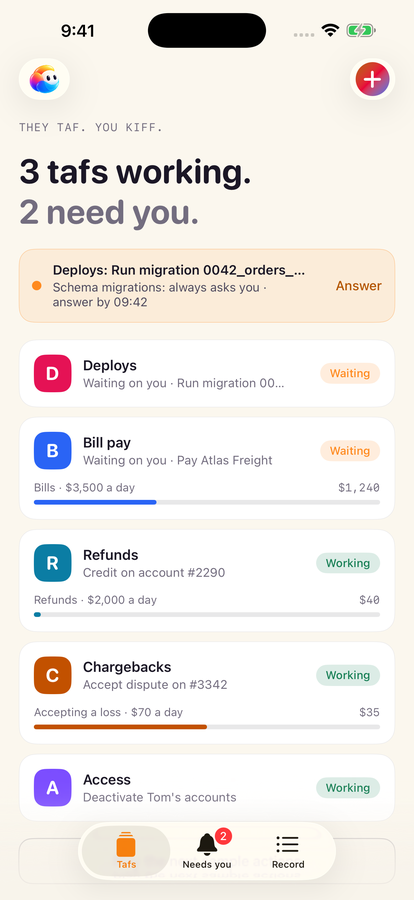
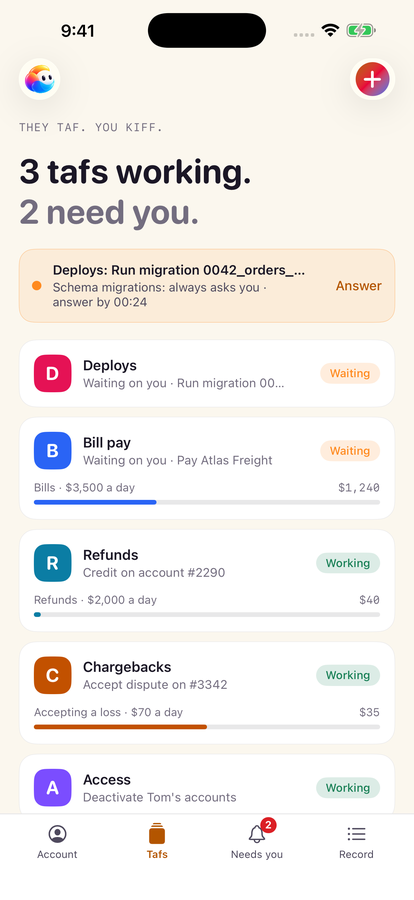
dev-kiff: docs for the app's screens (bar, a taf's four tabs, Setup), replacing the dial (#450)
* docs: Connect apps for the person running tafs; the dial after #439-#442

docs/connect-apps.md explains connecting an app (approve, then the app's
own sign-in), apps that use a key, what a taf can do and how its Card
still decides, why the consent screen lists broad access, app events and
their approval, the Slack door vs an action, disconnecting, and asking
Coach. It names apps by kind and no connection provider.

docs/dial.md: app events' approval on the When ring, Add a door through
Coach, labels cut with an ellipsis and read whole, and the pause rule for
a taf that works from its chat. doors.md describes the Slack bot sign-in
without the provider's name. Linked from docs/README.md and the README.

Claude-Session: https://claude.ai/code/session_01LDFi7vVjWytXEyimHeUj1t

* connect-apps: app events are approved on iPhone and iPad now (#441)

Claude-Session: https://claude.ai/code/session_01LDFi7vVjWytXEyimHeUj1t

* connect-apps: disconnecting asks the app to revoke, which may finish later; key or token

From codex-assistant's review on #443: Disconnect removes the taf's
access at once and requests revocation at the app, which may complete
later. A hosted page takes a key or a token.

* connect-apps: an action already sent may still finish after Disconnect

* docs (draft): the taf screen layout replaces the dial

docs/taf-screen.md (from dial.md): the bar, Record by taf, a taf's four
tabs, Setup's Starts when and Results go to, Account's Alerts, and dark,
[…]

diff --git a/README.md b/README.md
@@ -15,12 +15,15 @@ through KIFF's gateway, which checks the Card before any call reaches a tool.
 
 <p>
   <img src="docs/screenshots/welcome.png" width="220" alt="Welcome: They taf. You kiff.">
-  <img src="docs/screenshots/tafs.png" width="220" alt="Tafs: three working, two need you">
+  <img src="docs/screenshots/tafs.png" width="220" alt="Tafs: three working, two need you, with the bar: Account, Tafs, Needs you, Record">
   <img src="docs/screenshots/needs-you.png" width="220" alt="Needs you: held actions with Approve once and Refuse">
-  <img src="docs/screenshots/record.png" width="220" alt="Record: everything the tafs did, newest first">
-  <img src="docs/screenshots/taf.png" width="220" alt="A taf: its job, its runs and its activity">
+  <img src="docs/screenshots/record.png" width="220" alt="Record: a chip for each taf above the filter by kind, each entry starting with its taf">
+  <img src="docs/screenshots/taf.png" width="220" alt="A taf's Activity: what's left today, All, Done, Held and Refused, then its work by day">
   <img src="docs/screenshots/chat.png" width="220" alt="Chat: ask a taf what it did, or tell it what to do differently">
-  <img src="docs/screenshots/dial.png" width="220" alt="A taf's dial on iPhone: When, What and Where around its Why, Refund double charges">
+  <img src="docs/screenshots/setup.png" width="220" alt="A taf's Setup: the job, Starts when, Results go to and what it remembers">
+  <img src="docs/screenshots/starts-when.png" width="220" alt="Starts when: its schedule with − and +, Skip it or Run after, an app event to approve, one listening, and its doors">
+  <img src="docs/screenshots/results-go-to.png" width="220" alt="Results go to: Reply to the sender, Alert our phones and Email me, then a place in a connected app">
+  <img src="docs/screenshots/setup-dark.png" width="220" alt="Setup in dark">
   <img src="docs/screenshots/new-taf.png" width="220" alt="Starting a new taf">
 </p>
 
@@ -29,19 +32,19 @@ On iPad:
 <p>
   <img src="docs/screenshots/ipad-welcome.png" width="340" alt="Welcome on iPad">
   <img src="docs/screenshots/ipad-needs-you.png" width="340" alt="Needs you on iPad: held actions with Approve once and Refuse">
-  <img src="docs/screenshots/ipad-dial.png" width="340" alt="The dial on iPad, beside the list of tafs, with its remote and today's work">
+  <img src="docs/screenshots/ipad-setup.png" width="340" alt="A taf's Setup on iPad, beside the list of tafs, with the bar as a rail on the left">
 </p>
 
-On Android: the taf's dial (When, What and Where around its Why), a stop with its
-size and a change waiting to go live, Coach's card for a dial it drafted, and a
-taf's page with its chat:
+On Android: the bar, a taf's Setup and its Starts when, Results go to, Activity and Record
+by taf in dark:
 
 <p>
-  <img src="docs/screenshots/android/dial-overview.png" width="180" alt="The dial: the Why on the face, When, What and Where around it, an email door with a knock waiting and a closed Slack door">
-  <img src="docs/screenshots/android/dial-stop-size.png" width="180" alt="A stop chosen: Weekdays at 09:00, its size, and Make 1 change live">
-  <img src="docs/screenshots/android/dial-coach-card.png" width="180" alt="Coach's card: the dial it drafted, by connection, with one confirmation">
-  <img src="docs/screenshots/android/coach-card.png" width="180" alt="Coach: the header, the plan line, an answered approval and the rules card">
-  <img src="docs/screenshots/android/taf-page.png" width="180" alt="A taf's page: one header row, the tabs and the Card's line, then the chat">
+  <img src="docs/screenshots/android/home-bar.png" width="180" alt="Home with the bar: Account, Tafs, Needs you, Record">
+  <img src="docs/screenshots/android/taf-setup.png" width="180" alt="A taf's Setup">
+  <img src="docs/screenshots/android/taf-starts-when.png" width="180" alt="Setup › Starts when">
+  <img src="docs/screenshots/android/taf-results-dark.png" width="180" alt="Setup › Results go to, in dark">
+  <img src="docs/screenshots/android/taf-activity-dark.png" width="180" alt="A taf's Activity, in dark">
+  <img src="docs/screenshots/android/record-by-taf-dark.png" width="180" alt="Record by taf, in dark">
 </p>
 
 Screenshots come from CI, with sample data. On iOS, a run that changes a screen
@@ -72,12 +75,13 @@ tafs cloud and planque. Each feature has a page in [docs/](docs/README.md):
   halting and removing it.
 - **[Chat](docs/chat.md):** ask a taf what it did or tell it what to do; its answer and
   its work stream as it goes, and a held call shows where it was made.
-- **[The dial](docs/dial.md):** each taf's When, What and Where around its Why, with
-  today's work on the rim. − and + change a stop's size, and the changes wait as the
-  taf's next version until you make them live; Pause stops every schedule, follow-ups
-  included.
+- **[The app's screens](docs/taf-screen.md):** a bar with Account, Tafs, Needs you,
+  Record and Coach; the Record filtered by taf; each taf's Chat, Activity, Card and Setup.
+  Setup says what starts it (schedule, app events you approve, doors, follow-ups, Pause)
+  and where its results go. Changes wait as the taf's next version until you make them
+  live. Light and dark.
 - **[Coach mode](docs/coach.md):** say the job; Coach connects the tools, drafts the taf,
-  its Card and its dial, and you confirm with Face ID, Touch ID or your fingerprint. Improve a taf, try a new
+  its Card and how it runs, and you confirm with Face ID, Touch ID or your fingerprint. Improve a taf, try a new
   version under a trial Card, then install it.
 - **[Held calls](docs/approvals.md):** in Needs you, the chat, the lock screen and a push
   alert. Approve once, refuse, or give the Card extra room: each answer is signed on the

diff --git a/docs/taf-screen.md b/docs/taf-screen.md
@@ -1,0 +1,95 @@
+# The app's screens: the bar, a taf's tabs and Setup
+
+How the app is laid out for the person using it, on iPhone, iPad and Android. Every
+line it shows about how a taf runs is tafs cloud's (`GET` and `PUT /v1/tafs/{id}/knob`,
+`PUT …/results`, `…/follow-ups/{fid}`, `…/pause` and `…/resume`, in [api.md](api.md)).
+
+## The bar
+
+Five items, always in reach: **Account · Tafs · Needs you · Record · Coach**. On a
+phone they run along the foot; on a tablet or in landscape they make a rail down the left,
+with Coach at its bottom.
+
+- **Account** holds the account's settings: alerts, time zone, people and groups,
+  devices, signing out.
+- **Tafs** lists your tafs.
+- **Needs you** holds what waits for your answer, with its count.
+- **Record** is everything your tafs did, asked or were refused.
+- **Coach** is a filled button, not a tab: it opens Coach mode. It shows only to someone
+  who may use Coach; for anyone else the bar has four items.
+
+## Record
+
+A row of chips filters it by taf: **All tafs**, then one chip per taf with its colour. It
+combines with the filter by kind. Each entry starts with its taf ("Chargebacks · Refund
+€120"), and each day's heading shows the money spent that day.
+
+## A taf's four tabs
+
+Each tab has one job.
+
+- **Chat**: talk to the taf, or tell it to work differently. It works inside its Card
+  either way.
+- **Activity**: what it's waiting for from you (its Needs you items) at the top, then what
+  it did, day by day, filtered **All / Done / Held / Refused**. An entry opens the request
+  step by step.
+- **Card**: only what's on the Card: the Card itself, its limits, how they're counted, what
+  it has used, **Halt** and **Revoke**.
+- **Setup**: how it runs, in sections:
+  - **The job**, with **Improve in Coach**;
+  - **Starts when** and **Results go to** (below), each opened with **Open**;
+  - **Connected apps**, each with its actions, **Choose actions** when none are chosen yet,
+    and **Connect an app…** (see [connect-apps.md](connect-apps.md));
+  - **What it remembers**, **Versions**, and **Remove for good**.
+
+## Setup › Starts when
+
+- **Its schedule**: when it runs ("Every 4 hours, 9:00–17:00") and the next run in the
+  account's time zone. **−** and **+** move it to the next choice tafs cloud offers. Under
+  it, **If it is still working when the next start comes**: **Skip it** or **Run after**.
+  A taf that works from its chat has no schedule.
+- **App events**: each event a connected app can wake it on, with its filter in words. One
+  that needs you shows **Approve**: you approve its exact filters with Face ID, Touch ID or
+  your fingerprint, and only then does the app start telling the taf. An approved one shows
+  **Listening** and **Stop**.
+- **Doors**: each [door](doors.md), open or closed, with **Edit**, then **Add a door…**.
+- **Follow-ups it set itself**: each with its time and **Remove**.
+- **Pause every start** at the bottom stops every schedule and follow-up, and the taf stays
+  paused until **Resume every start**. If one couldn't be switched, it says so, and trying
+  again finishes it.
+
+A change to how it starts makes the taf's next version, shown as **not live** until you
+make it live; where its Card changes, that asks for Face ID or your fingerprint. A change
+never goes live by itself. Only someone who manages the taf can change Setup.
+
+## Setup › Results go to
+
+Where the taf's answers go. Each place is a switch. At least one of tafs' own places stays
+on: the last of them can't be turned off, even while a place in a connected app is on.
+
+- **From tafs**:
+  - **Reply to the sender**: on the same thread, through the door it came in on;
+  - **Alert our phones**: who was answered and through which door, never its words;
+  - **Email me**: its answer to your email address.
+- **In your connected apps**: each place by its name ("Notion · Support log"), then
+  **Add a place from a connected app…**, which goes through Coach. The taf writes there
+  itself, through KIFF, inside its Card.
+- **Not sent**: a reply given up on after its tries shows **Send again**.
+
+## Account › Alerts
+
+Two examples at the top show what alerts look like on the lock screen: one with sound
+("Chargebacks needs you · Dispute #4825 · €640 is over its limit") and one silent
+("Refunds answered maria@… · By email"). Then:
+
+- **Alerts on this phone**, and **Sound**, for a hold or a halt only;
+- **What alerts you**, as tafs cloud sends it:
+  - **A taf needs you** and **Every taf halted**: with sound, always;
+  - **A taf answered someone**: silent, from the tafs whose Results go to includes
+    Alert our phones;
+  - **A reply wasn't sent**: silent.
+
+## Dark
+
+Every screen follows the device's appearance. In dark, the ground is a warm near-black, and
+green, amber and red are brighter. Secondary text keeps at least 4.5:1 contrast in both.

diff --git a/docs/coach.md b/docs/coach.md
@@ -208,17 +208,18 @@ this connection don't check out…"), and nothing can be approved. On Android: `
 `AppModel.loadProfileWords`, `ProfileWordsLines`; KIFF's golden vectors are in
 `app/src/test/resources/profile`.
 
-### The dial Coach drafts
+### The next version Coach drafts
 
-Coach sets a taf's dial with its `taf_dial` tool, which makes the taf's next version, and nothing
-runs from it. Then Coach shows `{type: "knob", taf_id, version}` in its chat. The app draws that
+Coach drafts how a taf runs (what starts it, what it does when it's still busy, where its
+results go) with its `taf_dial` tool, which makes the taf's next version, and nothing runs
+from it. Then Coach shows `{type: "knob", taf_id, version}` in its chat. The app draws that
 card from the taf's knob `draft`, in tafs cloud's words. The apps group `draft.groups` by
-connection and This taf, with When, What and Where lines; older responses fall back to
-words by ring.
+connection and This taf; older responses fall back to words by ring.
 **Confirm** makes it live with the usual version switch (with the fingerprint where the Card
 changes) and tells Coach it was approved. **Change** goes back to Coach. When the knob's draft is
-no longer that version, the card says it was replaced. The dial shows the same draft, with **Make
-it live**. On Android: `KnobDraftCard`.
+no longer that version, the card says it was replaced. The same draft also shows in the taf's
+Setup, marked not live, where it can be made live too ([taf-screen.md](taf-screen.md)). On
+Android: `KnobDraftCard`.
 
 ## Improving a taf
 
@@ -301,7 +302,7 @@ under Coach's Cards first.
 | `run_stop` | Stops a run; its held calls are withdrawn |
 | `taf_pause` | Pauses or resumes a taf's schedule |
 | `taf_results` | Sets where a taf's results go, all places at once ([doors.md](doors.md#where-results-go)). KIFF holds every change for the owner, who approves it in tafs |
-| `taf_dial` | Drafts a taf's dial, all its triggers, what it does when busy and where results go, as `PUT /v1/tafs/{id}/knob` takes them ([api.md](api.md)): the taf's next version, nothing running from it. Coach shows `{type: "knob", version, taf_id}` and installs it with `version_install`, held for the owner. Its Card, `coach-taf-dial`, allows 20 a day and holds nothing |
+| `taf_dial` | Drafts how a taf runs, all its triggers, what it does when busy and where results go, as `PUT /v1/tafs/{id}/knob` takes them ([api.md](api.md)): the taf's next version, nothing running from it. Coach shows `{type: "knob", version, taf_id}` and installs it with `version_install`, held for the owner. Its Card, `coach-taf-dial`, allows 20 a day and holds nothing |
 | `version_try` | Tries a version: KIFF decides each of its writes and sends none |
 | `version_install` | Installs a version. KIFF holds this for the owner, who approves it in tafs: the app stops what's in the way, confirms the version's Card and makes it live |
 

diff --git a/docs/connect-apps.md b/docs/connect-apps.md
@@ -74,14 +74,14 @@ What a taf does is decided action by action by its Card.
 ## App events: a taf that wakes on something in an app
 
 A taf can start when something happens in a connected app: a new deal, a new ticket, a
-message in a channel. Coach sets it up on the taf's [dial](dial.md), with the event's
+message in a channel. Coach sets it up in the taf's
+[Setup › Starts when](taf-screen.md#setup--starts-when), with the event's
 filters, for example "deals in the Sales pipeline over €5,000".
 
 Each event needs **your approval of those exact filters**, with Face ID or your fingerprint.
-Until you approve, the event's stop on the dial shows that it needs you, and nothing wakes
+Until you approve, the event shows **Approve** there, and nothing wakes
 the taf. Once you have, the taf wakes only on events that match what you approved, and the
-same event never starts it twice. You approve on the dial on iPhone and iPad; on Android it's
-coming, and until then an event nobody approved starts nothing.
+same event never starts it twice.
 
 ## The Slack door, or an action in Slack
 
@@ -90,7 +90,7 @@ Slack can be two different things for a taf:
 - **A [door](doors.md#slack):** messages in one channel reach the taf as work. People you
   pair give it work, and anyone else knocks for your answer. The taf answers in the thread.
 - **An action:** the taf posts in Slack as part of its job, for example a daily summary in
-  a channel, as a place on the dial's Where ring. It's a call through KIFF like any other,
+  a channel, as a place in the taf's Setup › Results go to. It's a call through KIFF like any other,
   inside the taf's Card.
 
 Both use the taf's Slack connection.

diff --git a/docs/README.md b/docs/README.md
@@ -12,7 +12,7 @@ A page that no longer matches the code is a bug (see [AGENTS.md](../AGENTS.md)).
 |---|---|
 | [How tafs fits together](#how-tafs-fits-together) | The app, tafs cloud, kiff/agents, KIFF and planque, and who decides what |
 | [tafs.md](tafs.md) | A taf: its job, definition, schedule, runs, reports, memory, Record, pausing and removing it |
-| [dial.md](dial.md) | The dial: When, What and Where around the Why, sizes, changes made live, Coach's dial card, pause and follow-ups |
+| [taf-screen.md](taf-screen.md) | The app's screens: the bar, Record by taf, a taf's four tabs, Setup › Starts when and Results go to, Account › Alerts, dark |
 | [chat.md](chat.md) | A taf's chat: sending, the streamed answer, the work block, held calls in the chat, steering, Stop, chats and archives |
 | [coach.md](coach.md) | Coach mode: making a taf, connecting tools, improving a taf, versions, trials, and Coach's own tools |
 | [approvals.md](approvals.md) | Held calls: how they reach the owner, how an answer is signed, what happens next, halting |

diff --git a/CHANGELOG.md b/CHANGELOG.md
@@ -24,6 +24,8 @@ version headings refer to releases, not merely to merged pull requests.
 
 ### Added
 
+- **Docs:** `docs/taf-screen.md`, the app's screens for the person using them (the bar, a taf's four tabs, Setup › Starts when and Results go to, Account › Alerts, dark), replaces `docs/dial.md`. The README shows the v23 screens from CI on iPhone, iPad and Android.
+
 - **Docs:** `docs/connect-apps.md`, Connect apps for the person running tafs; `docs/dial.md` covers app events' approval, ⏻ off for a taf that works from its chat, and labels cut with "…".
 
 - **Docs:** `docs/dial.md`, the dial for the person using it; the README covers Android, the dial, Connect apps, Did this happen? and the Slack door, with the Android screenshots.

diff --git a/docs/doors.md b/docs/doors.md
@@ -148,7 +148,7 @@ message came in. The chat marks the door's reply as answered in Slack.
 
 ## WhatsApp
 
-**What the owner does.** In Doors, turn the dial to Add a door, then WhatsApp. tafs
+**What the owner does.** In the taf's Setup › Starts when, **Add a door…**, then WhatsApp. tafs
 opens WhatsApp's signup: the owner signs in with their business, picks or adds the
 number, and comes back to the app, which finishes the connection with their session.
 Then they pair the numbers that may give work (their own, colleagues'). Everyone else
